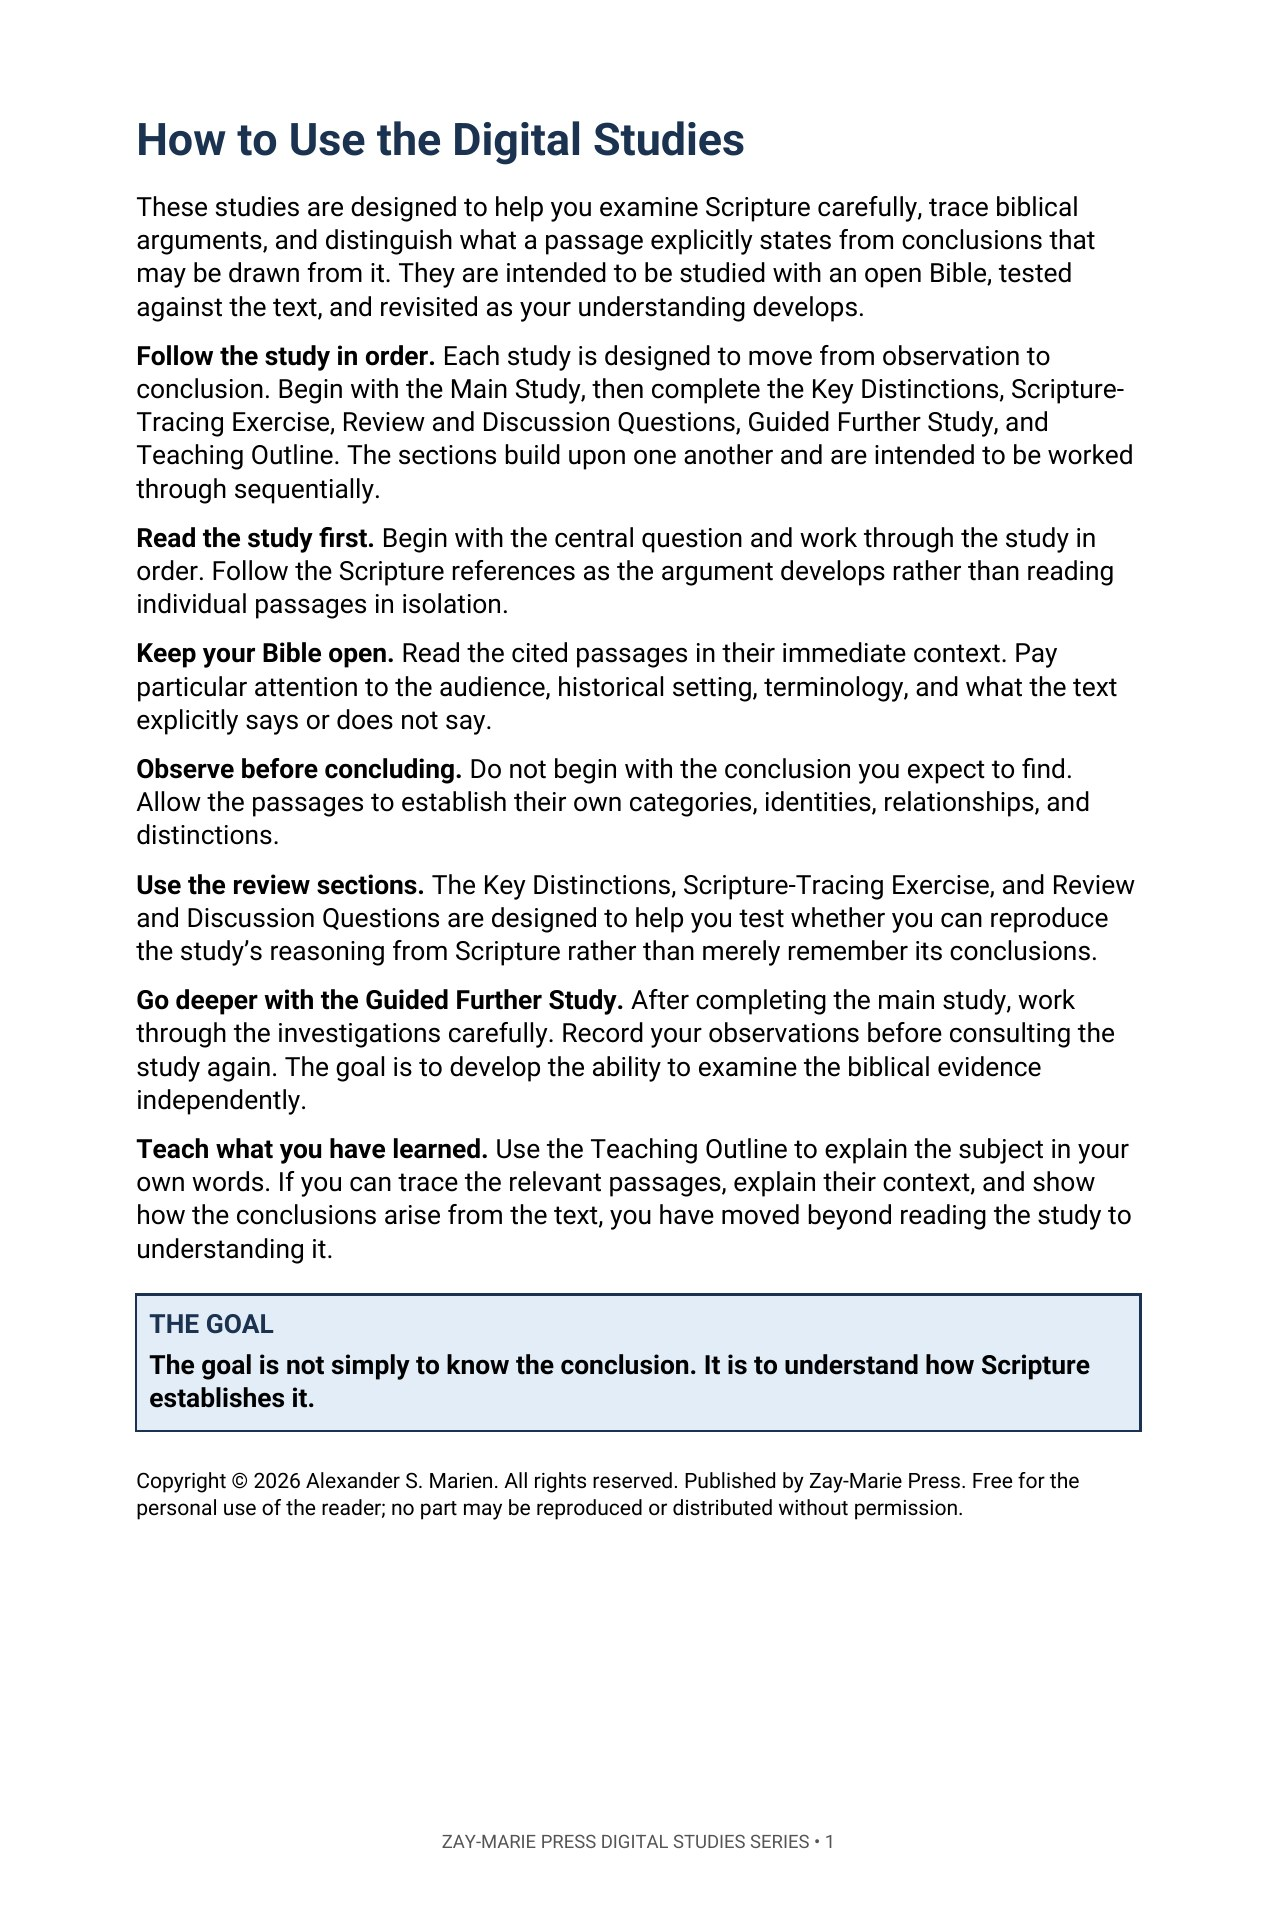
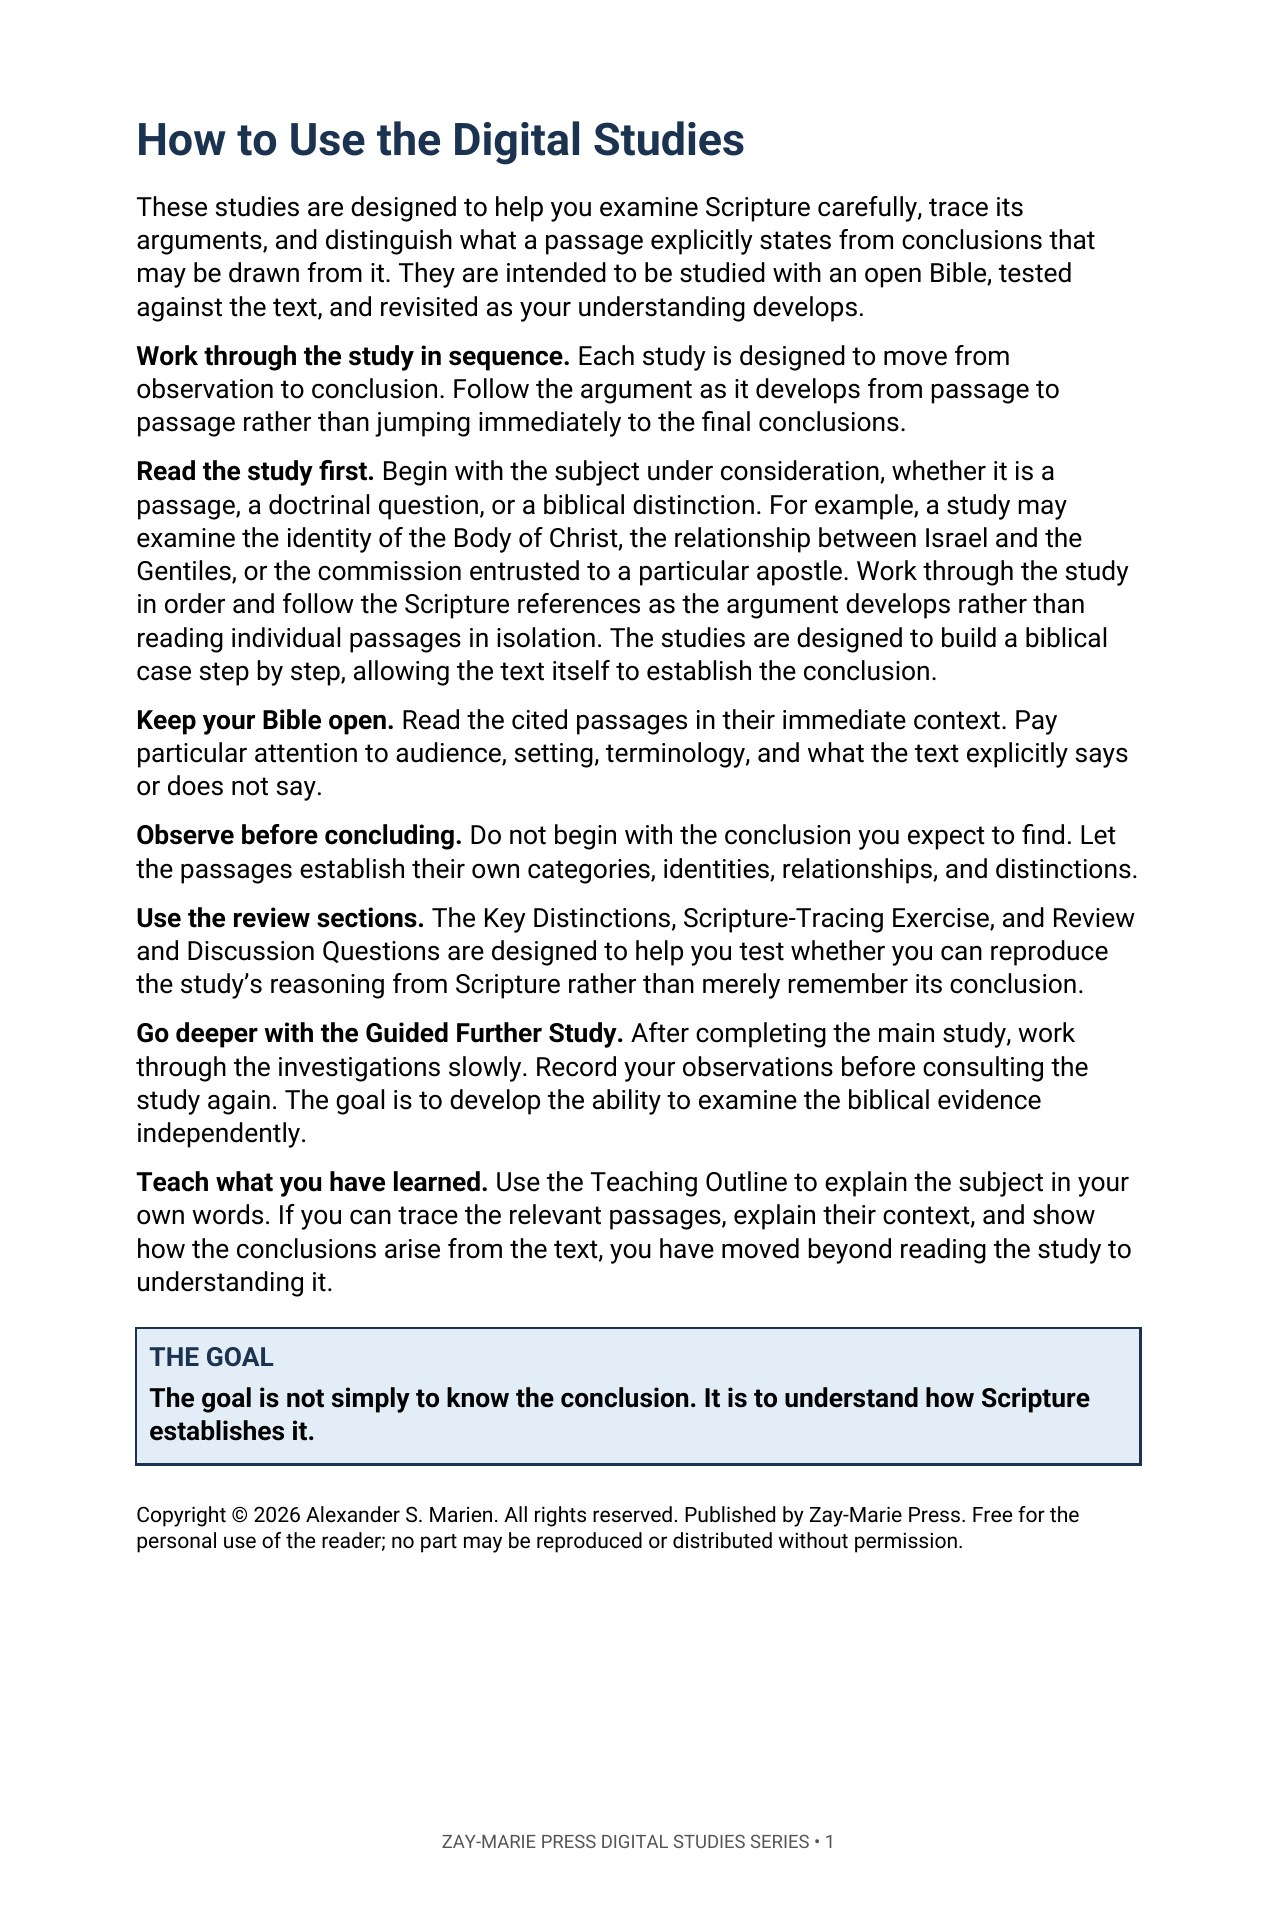
How to Use the Digital Studies PDF: revised text
Claude-Session: https://claude.ai/code/session_017tV3wbVHZsntosvQgFT32T

Changed region(s): [[0.0916, 0.1848, 0.9162, 0.8314], [0.794, 0.0924, 0.8246, 0.1232]]

diff --git a/build-tools/how-to-use/build_how_to_use.py b/build-tools/how-to-use/build_how_to_use.py
@@ -20,13 +20,13 @@ def run(p,t,b=False,i=False,size=None,color=None):
 def para(after=6,before=0,keep=False):
     p=d.add_paragraph();pf=p.paragraph_format;pf.space_after=Pt(after);pf.space_before=Pt(before);pf.line_spacing=1.08;pf.alignment=WD_ALIGN_PARAGRAPH.LEFT;pf.keep_with_next=keep;return p
 p=para(after=8,before=0);run(p,'How to Use the Digital Studies',b=True,size=17,color=NAVY)
-p=para();run(p,'These studies are designed to help you examine Scripture carefully, trace biblical arguments, and distinguish what a passage explicitly states from conclusions that may be drawn from it. They are intended to be studied with an open Bible, tested against the text, and revisited as your understanding develops.')
-items=[('Follow the study in order.','Each study is designed to move from observation to conclusion. Begin with the Main Study, then complete the Key Distinctions, Scripture-Tracing Exercise, Review and Discussion Questions, Guided Further Study, and Teaching Outline. The sections build upon one another and are intended to be worked through sequentially.'),
-('Read the study first.','Begin with the central question and work through the study in order. Follow the Scripture references as the argument develops rather than reading individual passages in isolation.'),
-('Keep your Bible open.','Read the cited passages in their immediate context. Pay particular attention to the audience, historical setting, terminology, and what the text explicitly says or does not say.'),
-('Observe before concluding.','Do not begin with the conclusion you expect to find. Allow the passages to establish their own categories, identities, relationships, and distinctions.'),
-('Use the review sections.','The Key Distinctions, Scripture-Tracing Exercise, and Review and Discussion Questions are designed to help you test whether you can reproduce the study’s reasoning from Scripture rather than merely remember its conclusions.'),
-('Go deeper with the Guided Further Study.','After completing the main study, work through the investigations carefully. Record your observations before consulting the study again. The goal is to develop the ability to examine the biblical evidence independently.'),
+p=para();run(p,'These studies are designed to help you examine Scripture carefully, trace its arguments, and distinguish what a passage explicitly states from conclusions that may be drawn from it. They are intended to be studied with an open Bible, tested against the text, and revisited as your understanding develops.')
+items=[('Work through the study in sequence.','Each study is designed to move from observation to conclusion. Follow the argument as it develops from passage to passage rather than jumping immediately to the final conclusions.'),
+('Read the study first.','Begin with the subject under consideration, whether it is a passage, a doctrinal question, or a biblical distinction. For example, a study may examine the identity of the Body of Christ, the relationship between Israel and the Gentiles, or the commission entrusted to a particular apostle. Work through the study in order and follow the Scripture references as the argument develops rather than reading individual passages in isolation. The studies are designed to build a biblical case step by step, allowing the text itself to establish the conclusion.'),
+('Keep your Bible open.','Read the cited passages in their immediate context. Pay particular attention to audience, setting, terminology, and what the text explicitly says or does not say.'),
+('Observe before concluding.','Do not begin with the conclusion you expect to find. Let the passages establish their own categories, identities, relationships, and distinctions.'),
+('Use the review sections.','The Key Distinctions, Scripture-Tracing Exercise, and Review and Discussion Questions are designed to help you test whether you can reproduce the study’s reasoning from Scripture rather than merely remember its conclusion.'),
+('Go deeper with the Guided Further Study.','After completing the main study, work through the investigations slowly. Record your observations before consulting the study again. The goal is to develop the ability to examine the biblical evidence independently.'),
 ('Teach what you have learned.','Use the Teaching Outline to explain the subject in your own words. If you can trace the relevant passages, explain their context, and show how the conclusions arise from the text, you have moved beyond reading the study to understanding it.')]
 for a,b in items:
     p=para();run(p,a+' ',b=True);run(p,b)
